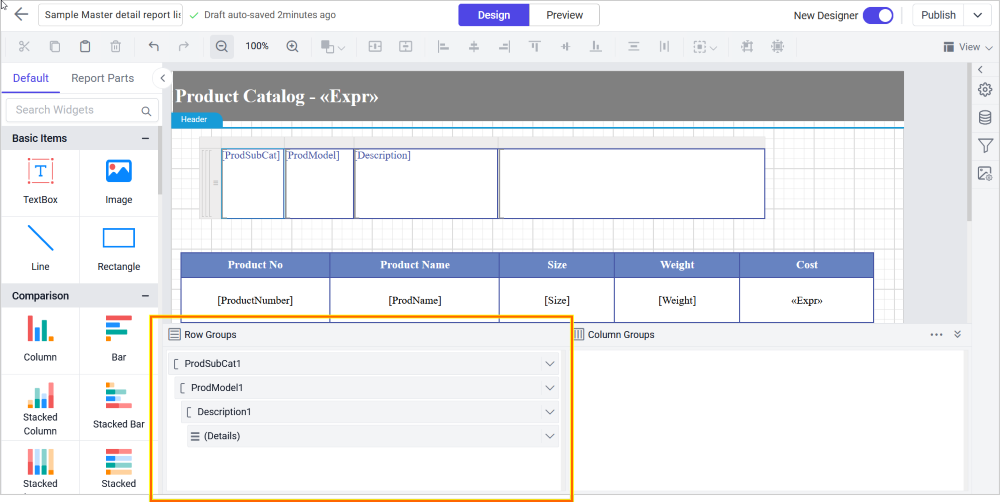
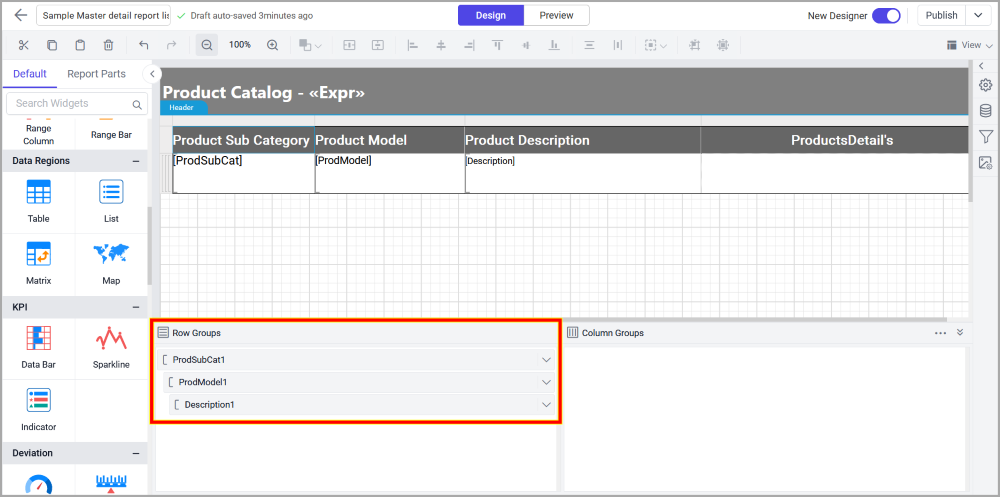
Mar 5, 2024, 8:45 AM

Changed region(s): [[0.0, 0.0, 1.0, 1.0], [0.744, 0.3622, 0.775, 0.3924]]

diff --git a/docs/designer-guide/report-designer/how-to/create-master-detail-report-using-list.md b/docs/designer-guide/report-designer/how-to/create-master-detail-report-using-list.md
@@ -45,14 +45,14 @@ Drag the table report item from the Data Regions area to the design area and adj
    ![Detail table design](/static/assets/on-premise/images/report-designer/how-to/master-details-nested-item/initial-master-report-design.png '#width=550px')
 
 6. Set up the list report item.
-Drag the list report item from the Data Regions to the design area and assign the dataset name to the `Dataset` property in the properties panel as shown in the below image.
+Drag the list report item from the Data Regions to the design area and assign the dataset name to be `ProductCatalog` property in the properties panel as shown in the below image.
    ![Master table design](/static/assets/on-premise/images/report-designer/how-to/master-details-nested-item/assign-dataset-list.png '#width=350px')
 
 7. Add groups to the list.
-Organize the data by adding groups to the list, following the image example.
+Organize your data by adding groups to the list table  .
    ![Master table design](/static/assets/on-premise/images/report-designer/how-to/master-details-nested-item/initail-list-design.png '#width=600px')
 
-8. Cut the detail table from body and paste inside the list as shown in the following image.
+8. Cut the detail table from design area body and paste inside the list as shown in the following image.
    ![Master table design](/static/assets/on-premise/images/report-designer/how-to/master-details-nested-item/final-list-design.png '#width=600px')
 
 9. Click on the Preview at the top-right corner of the Report Designer toolbar to see the output result.
